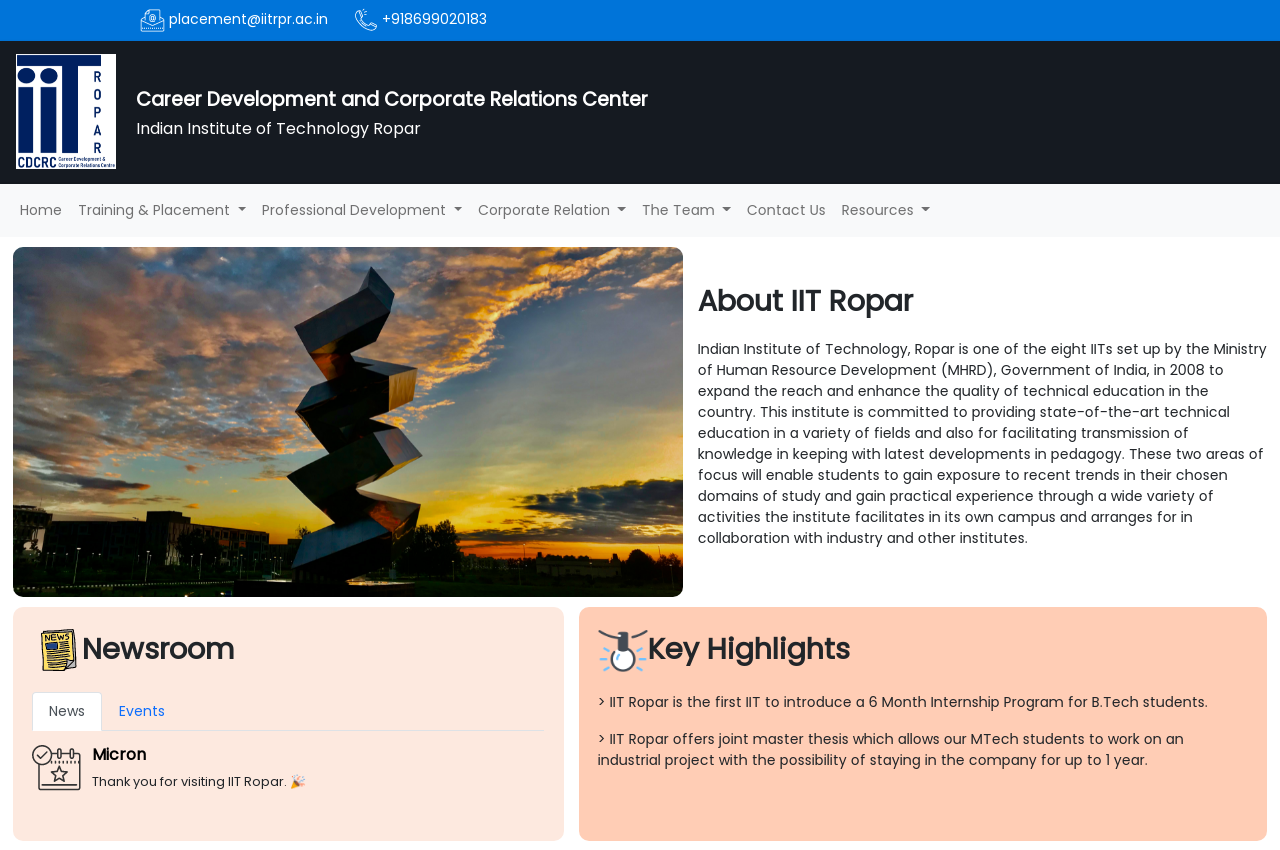
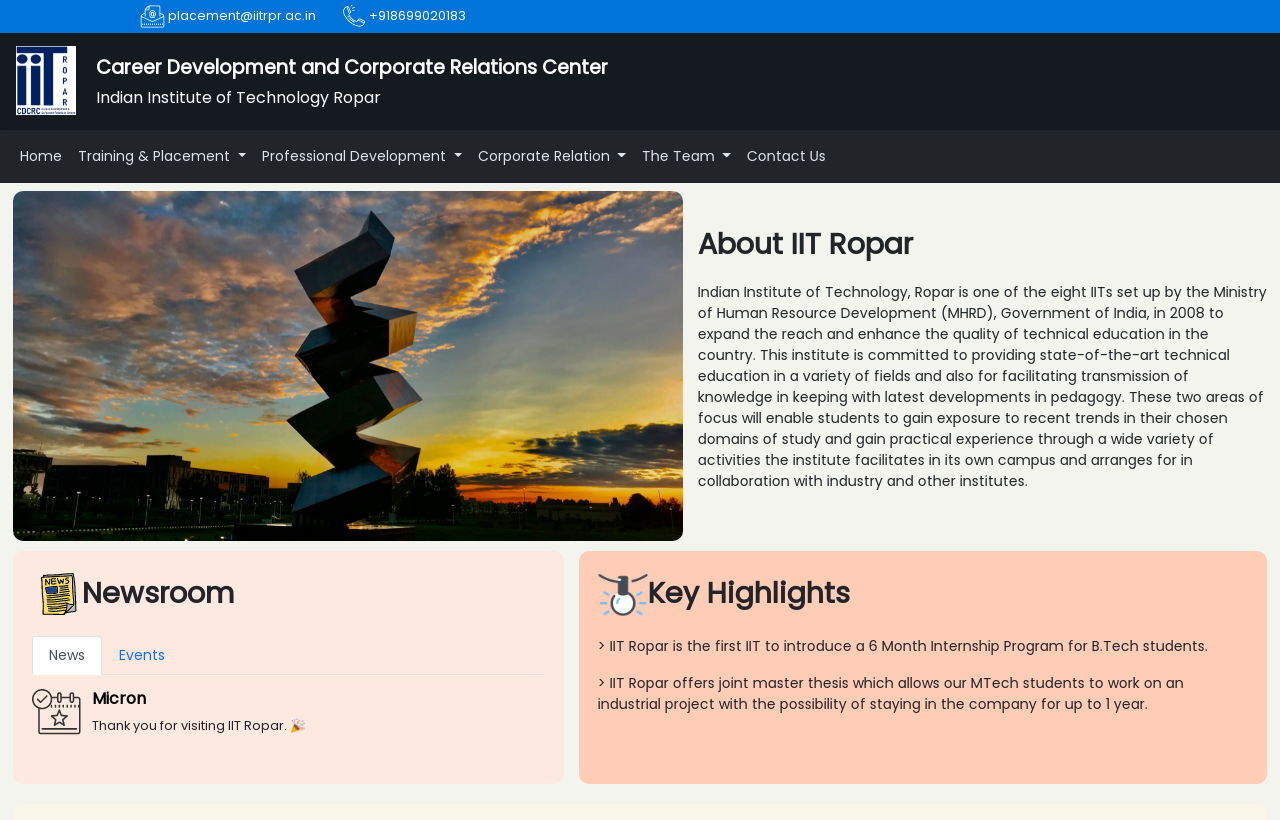
Minor UI tweaks in landing page

diff --git a/backend/src/static/styles/info/css/home.scss b/backend/src/static/styles/info/css/home.scss
@@ -1,19 +1,22 @@
-
 @import "../../variables";
 
-
 $home_page_border_radius: 10px;
+
+.home_page_container {
+  margin: auto;
+  padding: 0.5rem 0rem;
+  background: #f3f4ed;
+}
 
 .custom_container {
   width: 98%;
   margin: auto;
-  .heading{
+  .heading {
     font-size: 1.8rem;
     font-weight: bold;
     margin-bottom: 1rem;
   }
 }
-
 
 .about_iit_ropar_wrapper {
   display: grid;
@@ -35,7 +38,7 @@ $home_page_border_radius: 10px;
   }
 }
 
-@media all and (max-width:846px){
+@media all and (max-width: 846px) {
   .about_iit_ropar_wrapper {
     display: flex;
     flex-direction: column;
@@ -63,37 +66,38 @@ $home_page_border_radius: 10px;
   border-radius: $home_page_border_radius;
 }
 
-.heading_wrapper_img{
+.heading_wrapper_img {
   height: 50px;
 }
 
-.newroom_stats_wrapper{
+.newroom_stats_wrapper {
   display: grid;
   grid-template-columns: 0.8fr 1fr;
   gap: 15px;
-  .newsroom_wrapper{
+  .newsroom_wrapper {
     background: #fde9df;
     margin-top: 10px;
     padding: 1.2rem !important;
     border-radius: $home_page_border_radius;
 
-    .home-tab, .events-tab{
-      .content{
+    .home-tab,
+    .events-tab {
+      .content {
         margin: 14px 0px;
         display: flex;
         gap: 10px;
-        .calender_icon{
+        .calender_icon {
           width: 50px;
         }
-        .title{
+        .title {
           font-size: 1rem;
           font-weight: bold;
         }
-        .data{
+        .data {
           font-size: 0.8rem;
           text-align: justify;
         }
-        .text_content{
+        .text_content {
           display: flex;
           flex-direction: column;
         }
@@ -101,7 +105,7 @@ $home_page_border_radius: 10px;
     }
   }
 
-  .some_stats{
+  .some_stats {
     background: #ffcdb5;
     margin-top: 10px;
     padding: 1.2rem !important;
@@ -109,7 +113,7 @@ $home_page_border_radius: 10px;
   }
 }
 
-@media all and (max-width:600px){
+@media all and (max-width: 600px) {
   .newroom_stats_wrapper {
     display: flex;
     flex-direction: column;

diff --git a/backend/src/templates/base.html b/backend/src/templates/base.html
@@ -16,7 +16,7 @@
       name="keywords"
       content="jquery, css3, 3d, webkit, fallback, slider, css3, 3d transforms, slices, rotate, box, automatic"
     />
-    <link rel="shortcut icon" href="/favicon.ico" />
+    <link rel="shortcut icon" href="../favicon.ico" />
 
     <link
       href="https://cdn.jsdelivr.net/npm/bootstrap@5.0.1/dist/css/bootstrap.min.css"
@@ -146,7 +146,7 @@
       </div>
 
       <div class="navbar_wrapper">
-        <nav class="navbar navbar-expand-lg navbar-light bg-light">
+        <nav class="navbar navbar-expand-lg navbar-dark bg-dark">
           <div class="container-fluid">
             <button
               class="navbar-toggler"
@@ -160,9 +160,7 @@
               <span class="navbar-toggler-icon"></span>
             </button>
             <div class="collapse navbar-collapse" id="navbarScroll">
-              <ul
-                class="navbar-nav me-auto my-2 my-lg-0 navbar-nav-scroll"
-              >
+              <ul class="navbar-nav me-auto my-2 my-lg-0 navbar-nav-scroll">
                 <li class="nav-item">
                   <a
                     class="nav-link"
@@ -416,13 +414,13 @@
                   </ul>
                 </li>
 
-                <li>
-                  <a class="nav-item nav-link" href="{% url 'info:contacts' %}"
+                <li class="nav-item">
+                  <a class="nav-link" href="{% url 'info:contacts' %}"
                     >Contact Us</a
                   >
                 </li>
 
-                {% if not user.is_authenticated %}
+                {% if user.is_authenticated %}
                 <li class="nav-item dropdown">
                   <a
                     class="nav-link dropdown-toggle"

diff --git a/backend/src/static/styles/base/base.scss b/backend/src/static/styles/base/base.scss
@@ -39,13 +39,16 @@ a {
     box-shadow: 0 1px 3px 0 rgba(0, 0, 0, 0.15);
     margin-bottom: 2px;
   }
+
+
   .contact-info-wrapper {
     background: #0074d9;
     .contact-info {
+      font-size: 0.8rem;
       width: 95%;
       max-width: 1000px;
       margin: auto;
-      padding: 8px 0px;
+      padding: 4px 0px;
       display: -webkit-box;
       display: -ms-flexbox;
       display: flex;
@@ -92,7 +95,7 @@ a {
 }
 
 .header .logo_title_wrapper #cdcrc_logo {
-  width: 100px;
+  width: 60px;
 }
 
 .header .logo_title_wrapper .title .main-heading {
@@ -116,12 +119,7 @@ a {
 
 @media all and (max-width: 448px) {
   .header .logo_title_wrapper {
-    -webkit-box-orient: vertical;
-    -webkit-box-direction: normal;
-    -ms-flex-direction: column;
     flex-direction: column;
-    -webkit-box-align: start;
-    -ms-flex-align: start;
     align-items: flex-start;
   }
 }
@@ -144,13 +142,8 @@ a {
 }
 
 @media all and (max-width: 712px) {
-  .header {
-    display: -webkit-box;
-    display: -ms-flexbox;
+  .header_wrapper .header {
     display: flex;
-    -webkit-box-orient: vertical;
-    -webkit-box-direction: normal;
-    -ms-flex-direction: column;
     flex-direction: column;
   }
   .header .user_profile_details {
@@ -162,12 +155,16 @@ a {
 }
 
 .navbar_wrapper {
-  background: #fdfaf6 !important;
+  .nav-item .nav-link {
+    color: $primarycolor-100 !important;
+    &:hover {
+      color: #fff !important;
+    }
+  }
 }
 
 .footer_wrapper {
   width: 100%;
-  margin-top: 1rem;
 }
 
 .footer_wrapper footer {

diff --git a/backend/src/templates/info/home.html b/backend/src/templates/info/home.html
@@ -9,7 +9,7 @@
 
 {% endblock %} {% block body_content %}
 
-<div>
+<div class="home_page_container">
   <div class="custom_container">
     <div class="about_iit_ropar_wrapper">
       <img src="/static/spiraliitropar.jpg" class="banner-image" alt="banner" />
